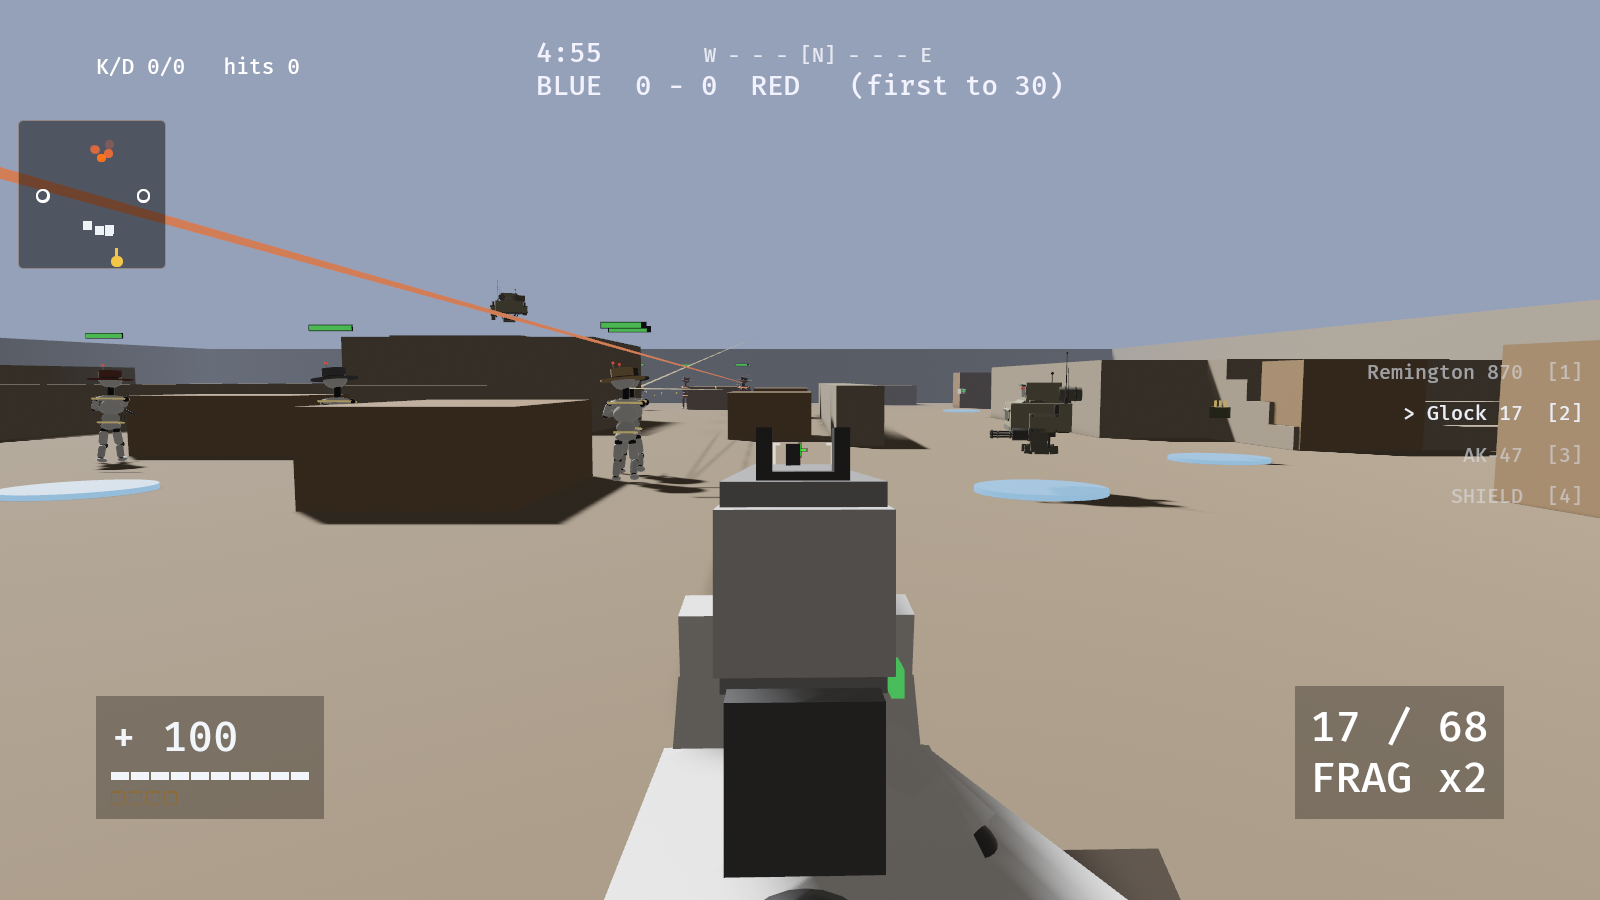
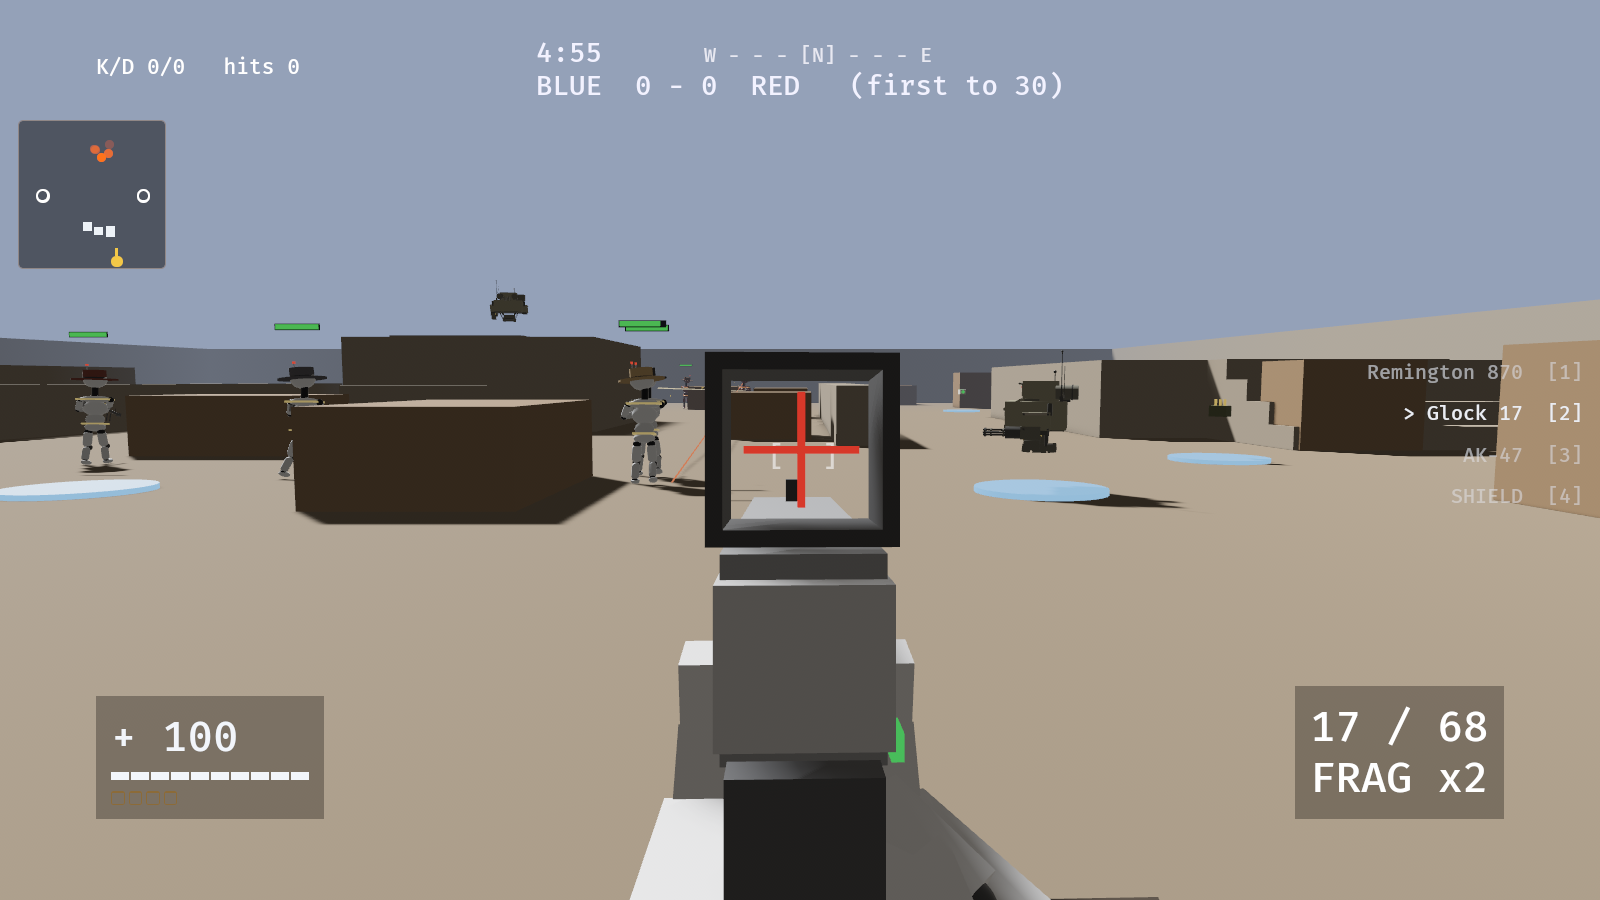
Every firearm gets a 1x red-dot optic with an illuminated cross
The goalpost irons asked the player to line up two pieces of dark grey
against a dark grey world, at 4 mm of screen. They are gone. In their
place every firearm carries the same 1x optic: an open square housing
you look THROUGH - four bars around a clear window, never a solid block
- with a thin emissive red cross floating dead centre.

The reticle is unlit, so it holds its glow against a shadowed wall and
a bright skyline alike, the way a real illuminated dot does. It is a
fifth weapon tone rather than a reuse of `mech_red`: that handle is a
gameplay promise (the visor weak point carries MECH_VISOR_MULT) and a
reticle sharing it would start reading as a hit marker.

1x means 1x - the cross is a sight picture, not a zoom. Magnification
stays whatever each gun's `zoom_deg` already said.

The minigun had no sights of ANY kind and fell through to the generic
ADS shift; it has an optic and a declared sight line now. The AWM is
the one deliberate exception - `vm_hidden_while_scoped` deletes its
viewmodel while zoomed, so a modelled optic could never be seen. Its
illuminated cross lives in the scope overlay instead: same colour, same
shape, so the eye learns one thing. The black stadia stay, because red
alone vanishes against a sunlit wall and black alone vanishes in shade.

Each optic is mounted from the real receiver top, so the housing
neither floats nor sinks: the first pass put the pistol's window half
inside its own slide, which the capture caught immediately. The mount
[…]

diff --git a/engine/crates/jk_tdm/src/main.rs b/engine/crates/jk_tdm/src/main.rs
@@ -1918,13 +1918,14 @@ fn vm_carry(wk: GunKind) -> (Vec3, f32) {
 /// generic focus shift.
 fn sight_line_y(wk: GunKind) -> Option<f32> {
     match wk {
-        GunKind::Glock => Some(0.0877),
-        GunKind::Deagle => Some(0.1028),
-        GunKind::Mp5 => Some(0.0907),
-        GunKind::Shotgun => Some(0.0928),
-        GunKind::Ak47 => Some(0.0877),
-        GunKind::M4 => Some(0.1077),
-        GunKind::M249 => Some(0.1228),
+        GunKind::Glock => Some(0.1075),
+        GunKind::Deagle => Some(0.1300),
+        GunKind::Mp5 => Some(0.1160),
+        GunKind::Shotgun => Some(0.0950),
+        GunKind::Ak47 => Some(0.1060),
+        GunKind::M4 => Some(0.1120),
+        GunKind::M249 => Some(0.1265),
+        GunKind::Minigun => Some(0.1120),
         _ => None,
     }
 }
@@ -2258,6 +2259,9 @@ struct ModelKit {
     /// Faded unit-stencil paint for the mech ident plates - decorative
     /// parchment, deliberately dimmer than the ally signal white.
     mech_stencil: Handle<StandardMaterial>,
+    /// The 1x optic reticle - unlit so it holds its glow in shadow, the
+    /// way a real illuminated dot does.
+    optic_red: Handle<StandardMaterial>,
 }
 
 /// §2.1 tone slots of the weapon palette.
@@ -2267,6 +2271,12 @@ enum Tone {
     Mid,
     Dark,
     Black,
+    /// The red-dot RETICLE - unlit emissive red, the only non-grey in
+    /// the weapon palette. Deliberately its own slot rather than a
+    /// reuse of `mech_red`: that one is a gameplay PROMISE (the visor
+    /// weak point carries MECH_VISOR_MULT), and a reticle that shared
+    /// its handle would start reading as a hit marker.
+    Reticle,
 }
 
 impl ModelKit {
@@ -2276,6 +2286,7 @@ impl ModelKit {
             Tone::Mid => self.grey_mid.clone(),
             Tone::Dark => self.grey_dark.clone(),
             Tone::Black => self.grey_black.clone(),
+            Tone::Reticle => self.optic_red.clone(),
         }
     }
 }
@@ -2345,6 +2356,62 @@ fn push_stock(parts: &mut Vec<WPart>, z_rear: f32, drop: f32) {
 fn push_muzzle(parts: &mut Vec<WPart>, y: f32, z: f32, w: f32) {
     parts.push(wp(false, Tone::Dark, (0.0, y, z), 0.0, (w, w, 0.07)));
     parts.push(wp(true, Tone::Black, (0.0, y, z + 0.028), FRAC_PI_2, (w * 0.45, 0.03, w * 0.45)));
+}
+
+/// Inner half-width of a red-dot window. At the ADS distance every
+/// firearm settles to, this subtends roughly a ninth of screen height -
+/// a real optic's proportion, big enough to aim through and small
+/// enough to leave peripheral vision intact.
+const OPTIC_HALF: f32 = 0.023;
+/// Frame bar thickness, and the housing's fore-aft depth.
+const OPTIC_FRAME: f32 = 0.005;
+const OPTIC_DEPTH: f32 = 0.032;
+
+/// §owner: the 1x RED DOT every firearm carries.
+///
+/// An open square housing you look THROUGH - four bars around a window,
+/// never a solid block - with a thin emissive red CROSS floating at the
+/// exact centre. This replaced the goalpost irons, which asked the
+/// player to line up two pieces of dark grey against a dark grey world.
+///
+/// `y` is the reticle centre and MUST equal the gun's `sight_line_y`:
+/// focus aligns that height to the eye, so any disagreement puts the
+/// cross off the crosshair and the optic becomes decoration. The pairing
+/// is asserted for every gun in `every_firearm_carries_an_aligned_optic`.
+///
+/// The cross is 1x - it moves the AIM POINT nowhere. It is a sight
+/// picture, not a zoom: magnification stays whatever `zoom_deg` says.
+fn push_red_dot(parts: &mut Vec<WPart>, y: f32, z: f32, mount_top: f32) {
+    let outer = OPTIC_HALF + OPTIC_FRAME * 0.5;
+    let span = OPTIC_HALF * 2.0 + OPTIC_FRAME * 2.0;
+    debug_assert!(
+        y - outer >= mount_top - 1e-4,
+        "the optic's lower frame is inside the gun: window bottom {} vs          receiver top {mount_top}",
+        y - outer
+    );
+    // housing: left / right posts, then the top and bottom bars
+    parts.push(wp(false, Tone::Black, (-outer, y, z), 0.0, (OPTIC_FRAME, span, OPTIC_DEPTH)));
+    parts.push(wp(false, Tone::Black, (outer, y, z), 0.0, (OPTIC_FRAME, span, OPTIC_DEPTH)));
+    parts.push(wp(false, Tone::Black, (0.0, y + outer, z), 0.0, (span, OPTIC_FRAME, OPTIC_DEPTH)));
+    parts.push(wp(false, Tone::Black, (0.0, y - outer, z), 0.0, (span, OPTIC_FRAME, OPTIC_DEPTH)));
+    // the mount BRIDGES housing to receiver. Sized from the real gap so
+    // the optic never floats and never sinks into the slide.
+    let gap = (y - outer - mount_top).max(0.0);
+    if gap > 1e-4 {
+        parts.push(wp(
+            false,
+            Tone::Dark,
+            (0.0, mount_top + gap * 0.5, z),
+            0.0,
+            (0.016, gap, OPTIC_DEPTH * 0.7),
+        ));
+    }
+    // THE CROSS - two thin emissive bars, dead centre. Kept clear of the
+    // frame (x1.55, not x2) so the arms float rather than touch, which
+    // is what makes it read as projected light instead of painted-on.
+    let arm = OPTIC_HALF * 1.55;
+    parts.push(wp(false, Tone::Reticle, (0.0, y, z), 0.0, (arm, 0.0024, 0.004)));
+    parts.push(wp(false, Tone::Reticle, (0.0, y, z), 0.0, (0.0024, arm, 0.004)));
 }
 
 /// §1.3: hand placements per weapon - (position, yaw, curl, mirrored) in
@@ -4914,12 +4981,8 @@ fn spawn_weapon_model(
             parts.push(wp(false, Tone::Dark, (0.0, -0.05, -0.01), 0.18, (0.042, 0.13, 0.06)));
             parts.push(wp(false, Tone::Black, (0.0, -0.018, 0.048), 0.0, (0.012, 0.012, 0.05)));
             parts.push(wp(false, Tone::Black, (0.0, 0.085, 0.15), 0.0, (0.008, 0.012, 0.01)));
-            // goalpost rear sight: two posts and a low crossbar - an
-            // aperture you look THROUGH, per the owner's reference shots,
-            // instead of a solid block you look AT
-            parts.push(wp(false, Tone::Black, (-0.011, 0.085, -0.03), 0.0, (0.0045, 0.018, 0.01)));
-            parts.push(wp(false, Tone::Black, (0.011, 0.085, -0.03), 0.0, (0.0045, 0.018, 0.01)));
-            parts.push(wp(false, Tone::Black, (0.0, 0.079, -0.03), 0.0, (0.026, 0.005, 0.01)));
+            // 1x red dot on the slide - replaces the goalpost irons
+            push_red_dot(&mut parts, 0.1075, -0.015, 0.079); // slide top 0.079
         }
         GunKind::Deagle => {
             // the hand cannon: long light slide, heavy dark frame
@@ -4929,12 +4992,7 @@ fn spawn_weapon_model(
             parts.push(wp(false, Tone::Dark, (0.0, -0.055, -0.01), 0.20, (0.046, 0.14, 0.065)));
             push_muzzle(&mut parts, 0.055, 0.27, 0.055);
             parts.push(wp(false, Tone::Black, (0.0, 0.10, 0.22), 0.0, (0.008, 0.014, 0.01)));
-            // goalpost rear sight: two posts and a low crossbar - an
-            // aperture you look THROUGH, per the owner's reference shots,
-            // instead of a solid block you look AT
-            parts.push(wp(false, Tone::Black, (-0.012, 0.1, -0.04), 0.0, (0.0045, 0.018, 0.01)));
-            parts.push(wp(false, Tone::Black, (0.012, 0.1, -0.04), 0.0, (0.0045, 0.018, 0.01)));
-            parts.push(wp(false, Tone::Black, (0.0, 0.094, -0.04), 0.0, (0.028, 0.005, 0.01)));
+            push_red_dot(&mut parts, 0.1300, -0.02, 0.102); // slide rib top 0.102
         }
         GunKind::Mp5 => {
             // compact SMG: short everything - slab receiver, raked mag
@@ -4953,12 +5011,7 @@ fn spawn_weapon_model(
             // at all. Rear notch on the receiver, front post at the muzzle
             // end, both at the same height so they line up.
             parts.push(wp(false, Tone::Black, (0.0, 0.088, 0.30), 0.0, (0.008, 0.016, 0.01)));
-            // goalpost rear sight: two posts and a low crossbar - an
-            // aperture you look THROUGH, per the owner's reference shots,
-            // instead of a solid block you look AT
-            parts.push(wp(false, Tone::Black, (-0.011, 0.088, -0.02), 0.0, (0.0045, 0.02, 0.01)));
-            parts.push(wp(false, Tone::Black, (0.011, 0.088, -0.02), 0.0, (0.0045, 0.02, 0.01)));
-            parts.push(wp(false, Tone::Black, (0.0, 0.081, -0.02), 0.0, (0.026, 0.005, 0.01)));
+            push_red_dot(&mut parts, 0.1160, 0.005, 0.089); // rail top 0.089
         }
         GunKind::Shotgun => {
             // pump gun: barrel + tube pair over a light pump
@@ -4969,13 +5022,7 @@ fn spawn_weapon_model(
             parts.push(wp(false, Tone::Dark, (0.0, -0.035, -0.20), 0.12, (0.045, 0.10, 0.26)));
             parts.push(wp(false, Tone::Mid, (0.0, -0.035, -0.325), 0.12, (0.05, 0.11, 0.02)));
             parts.push(wp(false, Tone::Black, (0.0, 0.09, 0.55), 0.0, (0.008, 0.016, 0.01)));
-            // goalpost rear sight: two posts and a low crossbar - an
-            // aperture you look THROUGH, per the owner's reference shots,
-            // instead of a solid block you look AT. The bead above had
-            // nothing to align against without this.
-            parts.push(wp(false, Tone::Black, (-0.011, 0.09, -0.05), 0.0, (0.0045, 0.018, 0.01)));
-            parts.push(wp(false, Tone::Black, (0.011, 0.09, -0.05), 0.0, (0.0045, 0.018, 0.01)));
-            parts.push(wp(false, Tone::Black, (0.0, 0.084, -0.05), 0.0, (0.026, 0.005, 0.01)));
+            push_red_dot(&mut parts, 0.0950, -0.03, 0.0625); // receiver top 0.0625
         }
         GunKind::Ak47 => {
             // the classic: long gas tube, big two-segment raked magazine
@@ -4989,12 +5036,7 @@ fn spawn_weapon_model(
             parts.push(wp(false, Tone::Dark, (0.0, -0.08, -0.05), 0.30, (0.04, 0.10, 0.05)));
             push_stock(&mut parts, -0.30, 0.045);
             push_muzzle(&mut parts, 0.045, 0.635, 0.038);
-            // goalpost rear sight: two posts and a low crossbar - an
-            // aperture you look THROUGH, per the owner's reference shots,
-            // instead of a solid block you look AT
-            parts.push(wp(false, Tone::Black, (-0.011, 0.085, 0.1), 0.0, (0.0045, 0.024, 0.01)));
-            parts.push(wp(false, Tone::Black, (0.011, 0.085, 0.1), 0.0, (0.0045, 0.024, 0.01)));
-            parts.push(wp(false, Tone::Black, (0.0, 0.076, 0.1), 0.0, (0.026, 0.005, 0.01)));
+            push_red_dot(&mut parts, 0.1060, 0.08, 0.078); // top cover 0.078
             parts.push(wp(false, Tone::Black, (0.0, 0.09, 0.58), 0.0, (0.008, 0.018, 0.01)));
         }
         GunKind::M4 => {
@@ -5010,12 +5052,7 @@ fn spawn_weapon_model(
             parts.push(wp(false, Tone::Dark, (0.0, -0.08, -0.06), 0.35, (0.04, 0.10, 0.05)));
             push_stock(&mut parts, -0.30, 0.05);
             parts.push(wp(false, Tone::Black, (0.0, 0.105, 0.24), 0.0, (0.008, 0.018, 0.01)));
-            // goalpost rear sight: two posts and a low crossbar - an
-            // aperture you look THROUGH, per the owner's reference shots,
-            // instead of a solid block you look AT
-            parts.push(wp(false, Tone::Black, (-0.011, 0.105, -0.02), 0.0, (0.0045, 0.02, 0.01)));
-            parts.push(wp(false, Tone::Black, (0.011, 0.105, -0.02), 0.0, (0.0045, 0.02, 0.01)));
-            parts.push(wp(false, Tone::Black, (0.0, 0.098, -0.02), 0.0, (0.026, 0.005, 0.01)));
+            push_red_dot(&mut parts, 0.1120, 0.0, 0.084); // rail top 0.084
         }
         GunKind::Awm => {
             // the AWM: long barrel, big scope block, solid cheek stock
@@ -5053,12 +5090,7 @@ fn spawn_weapon_model(
             // gun read as a grey wall. Front post is a tall blade off
             // the barrel so it shows THROUGH the rear aperture.
             parts.push(wp(false, Tone::Black, (0.0, 0.095, 0.62), 0.0, (0.008, 0.075, 0.01)));
-            // goalpost rear sight: two posts and a low crossbar - an
-            // aperture you look THROUGH, per the owner's reference shots,
-            // instead of a solid block you look AT
-            parts.push(wp(false, Tone::Black, (-0.012, 0.119, -0.02), 0.0, (0.0045, 0.024, 0.01)));
-            parts.push(wp(false, Tone::Black, (0.012, 0.119, -0.02), 0.0, (0.0045, 0.024, 0.01)));
-            parts.push(wp(false, Tone::Black, (0.0, 0.112, -0.02), 0.0, (0.028, 0.005, 0.01)));
+            push_red_dot(&mut parts, 0.1265, 0.0, 0.098); // feed cover 0.098
         }
         GunKind::Bow => {
             // hard-surface war bow: dark blocky limbs, mid riser, light tips
@@ -5127,6 +5159,10 @@ fn spawn_weapon_model(
             parts.push(wp(false, Tone::Black, (-0.02, -0.10, 0.18), 0.0, (0.026, 0.10, 0.035)));
             // feed chute hint on the right flank
             parts.push(wd(false, Tone::Light, (0.075, -0.02, -0.02), 0.0, (0.02, 0.06, 0.10)));
+            // §owner: the minigun had NO sights of any kind - it fell to
+            // the generic ADS shift and the player aimed by tracer alone.
+            // The optic sits above the motor housing (top y 0.075).
+            push_red_dot(&mut parts, 0.1120, -0.05, 0.075); // motor housing 0.075
         }
     }
     for p in parts {
@@ -6838,6 +6874,14 @@ fn setup(
         // decorative parchment (branding::palette::PARCHMENT_DIM), never
         // the ally signal white
         mech_stencil: materials.add(metal(Color::srgb(0.68, 0.63, 0.55), 0.0, 0.8)),
+        // unlit: an illuminated reticle does not take scene lighting, so
+        // it stays legible against a dark wall and a bright skyline alike
+        optic_red: materials.add(StandardMaterial {
+            base_color: Color::srgb(1.0, 0.14, 0.10),
+            emissive: LinearRgba::new(6.0, 0.35, 0.20, 1.0),
+            unlit: true,
+            ..default()
+        }),
     };
 
     // Fighter rigs, health bars, and pickup pads are match-scoped now
@@ -8041,6 +8085,48 @@ fn setup(
                 }
                 p.spawn((n, BackgroundColor(Color::srgba(0.0, 0.0, 0.0, 0.95))));
             }
+            // §owner: the ILLUMINATED CENTRE. Every other firearm now
+            // carries a red cross in a 1x optic; the scoped rifle is the
+            // one sight that could not (its viewmodel is hidden while
+            // zoomed), so its aiming mark lives here instead - same
+            // colour, same shape, so the eye learns one thing.
+            // The black stadia stay: red on its own vanishes against a
+            // sunlit wall, black on its own vanishes in shadow.
+            const SCOPE_RED: Color = Color::srgb(1.0, 0.16, 0.12);
+            p.spawn((
+                Node {
+                    position_type: PositionType::Absolute,
+                    left: Val::Percent(50.0),
+                    top: Val::Percent(50.0),
+                    width: Val::Px(2.0),
+                    height: Val::Vh(5.4),
+                    margin: UiRect::new(
+                        Val::Px(-1.0),
+                        Val::Px(0.0),
+                        Val::Vh(-2.7),
+                        Val::Px(0.0),
+                    ),
+                    ..default()
+                },
+                BackgroundColor(SCOPE_RED),
+            ));
+            p.spawn((
+                Node {
+                    position_type: PositionType::Absolute,
+                    left: Val::Percent(50.0),
+                    top: Val::Percent(50.0),
+                    width: Val::Vh(5.4),
+                    height: Val::Px(2.0),
+                    margin: UiRect::new(
+                        Val::Vh(-2.7),
+                        Val::Px(0.0),
+                        Val::Px(-1.0),
+                        Val::Px(0.0),
+                    ),
+                    ..default()
+                },
+                BackgroundColor(SCOPE_RED),
+            ));
         });
 
     // §4.3: AWARD TOASTS - stacked under the minimap, 2.5 s fade each.
@@ -15047,6 +15133,90 @@ mod band_tests {
                 feed_glyphs(hs, ns, bl, sm, wb),
                 want,
                 "glyphs for headshot={hs} noscope={ns} blind={bl} smoke={sm} wallbang={wb}"
+            );
+        }
+    }
+
+    /// §owner: every firearm carries a 1x red-dot optic, and the
+    /// reticle sits at EXACTLY the height focus aligns to the eye.
+    ///
+    /// This is the test the M249 needed and did not have. It shipped
+    /// with a sight line 2 mm above a flat feed cover and no rear
+    /// aperture at all, so aiming laid a 30 cm plate across the view -
+    /// a defect no unit test could see, because nothing tied the
+    /// declared number to the geometry that number is about.
+    ///
+    /// `push_red_dot(y, _)` builds its cross at `y`; `sight_line_y`
+    /// says where the eye goes. If those two ever disagree the optic
+    /// becomes decoration and the player aims with a cross that is not
+    /// on the target.
+    #[test]
+    fn every_firearm_carries_an_aligned_optic() {
+        // (kind, the y passed to push_red_dot in spawn_weapon_model)
+        let optics = [
+            (sim::GunKind::Glock, 0.1075_f32),
+            (sim::GunKind::Deagle, 0.1300),
+            (sim::GunKind::Mp5, 0.1160),
+            (sim::GunKind::Shotgun, 0.0950),
+            (sim::GunKind::Ak47, 0.1060),
+            (sim::GunKind::M4, 0.1120),
+            (sim::GunKind::M249, 0.1265),
+            (sim::GunKind::Minigun, 0.1120),
+        ];
+        for (kind, reticle_y) in optics {
+            let declared = sight_line_y(kind).unwrap_or_else(|| {
+                panic!("{kind:?} carries an optic but declares no sight line")
+            });
+            assert!(
+                (declared - reticle_y).abs() < 1e-6,
+                "{kind:?}: the reticle sits at {reticle_y} but focus aligns                  {declared} to the eye - the cross would not be on the                  crosshair"
+            );
+        }
+        // The AWM is the deliberate exception: `vm_hidden_while_scoped`
+        // deletes its viewmodel while zoomed, so a modelled optic could
+        // never be seen. Its illuminated cross lives in the scope
+        // overlay instead. Any sight line here would be a lie.
+        assert!(
+            sight_line_y(sim::GunKind::Awm).is_none(),
+            "the scoped rifle must not declare a viewmodel sight line"
+        );
+        // Fists, bow and spear have no sights to align.
+        for kind in [sim::GunKind::Fists, sim::GunKind::Bow, sim::GunKind::Spear] {
+            assert!(sight_line_y(kind).is_none(), "{kind:?} has no sights");
+        }
+    }
+
+    /// The optic must be a WINDOW, not a block: the frame bars sit
+    /// outside the clear aperture, and the cross arms stop short of the
+    /// frame. A reticle that touched the frame would read as painted-on
+    /// rather than projected, and a frame that overlapped the window
+    /// would be the grey wall all over again.
+    #[test]
+    fn the_optic_window_stays_clear() {
+        let mut parts = Vec::new();
+        push_red_dot(&mut parts, 0.10, 0.0, 0.06);
+        let reticles: Vec<&WPart> =
+            parts.iter().filter(|p| p.tone == Tone::Reticle).collect();
+        assert_eq!(reticles.len(), 2, "the cross is two bars");
+        for r in &reticles {
+            let half_x = r.size.x * 0.5;
+            let half_y = r.size.y * 0.5;
+            assert!(
+                half_x < OPTIC_HALF && half_y < OPTIC_HALF,
+                "a cross arm reaches the frame: {half_x} / {half_y} vs                  the {OPTIC_HALF} aperture"
+            );
+            assert!(
+                (r.pos.y - 0.10).abs() < 1e-6 && r.pos.x.abs() < 1e-6,
+                "the cross must be centred on the sight line"
+            );
+        }
+        // every frame bar clears the aperture
+        for b in parts.iter().filter(|p| p.tone == Tone::Black) {
+            let dx = b.pos.x.abs() - b.size.x * 0.5;
+            let dy = (b.pos.y - 0.10).abs() - b.size.y * 0.5;
+            assert!(
+                dx >= OPTIC_HALF - 1e-6 || dy >= OPTIC_HALF - 1e-6,
+                "a frame bar intrudes into the clear window"
             );
         }
     }
